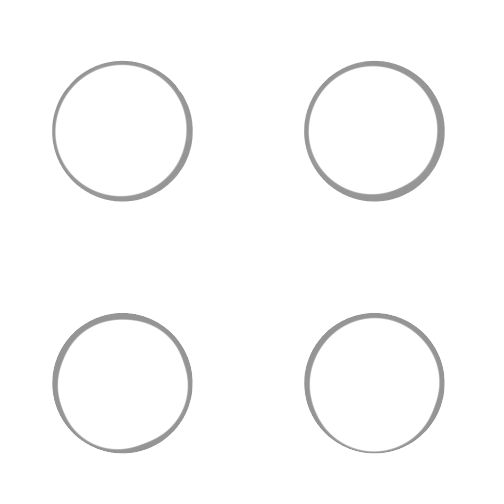
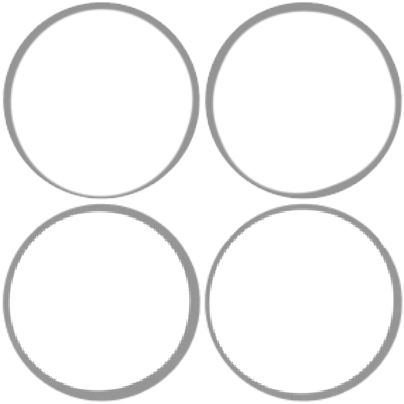
Ball object replaced with animation.

diff --git a/sketch.js b/sketch.js
@@ -1,18 +1,16 @@
 import Ball from './src/ball.js';
-import Sprite from './src/sprite.js'
 
 let ball;
 let spritesheet;
 let spritedata;
 
 let animation = [];
-let newBall;
 
 function preload() {
   // Image data to load for animated sprites
-  // Currently have ball2 or ball3
-  spritedata = loadJSON('src/images/ball3.json')
-  spritesheet = loadImage('src/images/ball3.png')
+  // Currently have ball2 or ball3 (Ball2 better to test rotation)
+  spritedata = loadJSON('src/images/ball2.json')
+  spritesheet = loadImage('src/images/ball2.png')
 }
 
 const displayScore = (score, x = width / 2, y = height / 2, txtSize = 200) => {
@@ -36,6 +34,8 @@ const displayScore = (score, x = width / 2, y = height / 2, txtSize = 200) => {
 function setup() {
   createCanvas(windowWidth, windowHeight);
 
+  imageMode(CENTER)
+
   let frames = spritedata.frames;
   // Find the position of each sprite on the spritesheet to display
   // One at a time
@@ -45,8 +45,7 @@ function setup() {
 
     animation.push(img);
   }
-  newBall = new Sprite(animation, .15);
-  ball = new Ball(width / 2, 0, 50);
+  ball = new Ball(width / 2, 0, 50, animation, .15);
 }
 
 function mousePressed() {
@@ -61,11 +60,8 @@ function draw() {
   background(25);
   fill(255, 30);
 
-  //  Sprite animations
-  newBall.show();
-  newBall.animate();
-
   ball.draw();
+  ball.animate();
   ball.update();
 
   displayScore(ball.hitCount);

diff --git a/src/ball.js b/src/ball.js
@@ -1,7 +1,7 @@
 import constrainAngle from './helpers/constrainAngle.js';
 
 class Ball {
-  constructor(x, y, radius) {
+  constructor(x, y, radius, animation, speed) {
     // For scoring
     this.ballIsHit = false;
     this.hitCount = 0;
@@ -31,6 +31,13 @@ class Ball {
     this.hitMagnitude = this.gravity.y * 100;
     // For applying hitMagnitude to ball
     this.hitVelocity = createVector();
+
+    // Animation (fps)
+    this.animation = animation;
+    this.speed = speed;
+    this.len = this.animation.length;
+    this.frameIndex = 0;
+
   }
 
   checkHit(x, y) {
@@ -114,12 +121,19 @@ class Ball {
   }
 
   draw() {
+    let frameIndex = floor(this.frameIndex) % this.len
+    image(this.animation[frameIndex], this.pos.x, this.pos.y, [100], [100]);
+
     push();
     if (this.ballIsHit) {
       fill(0, 0, 255);
     }
-    ellipse(this.pos.x, this.pos.y, this.radius * 2, this.radius * 2);
+    // ellipse(this.pos.x, this.pos.y, this.radius * 2, this.radius * 2);
     pop();
+  }
+
+  animate() {
+    this.frameIndex += this.speed
   }
 }
 
